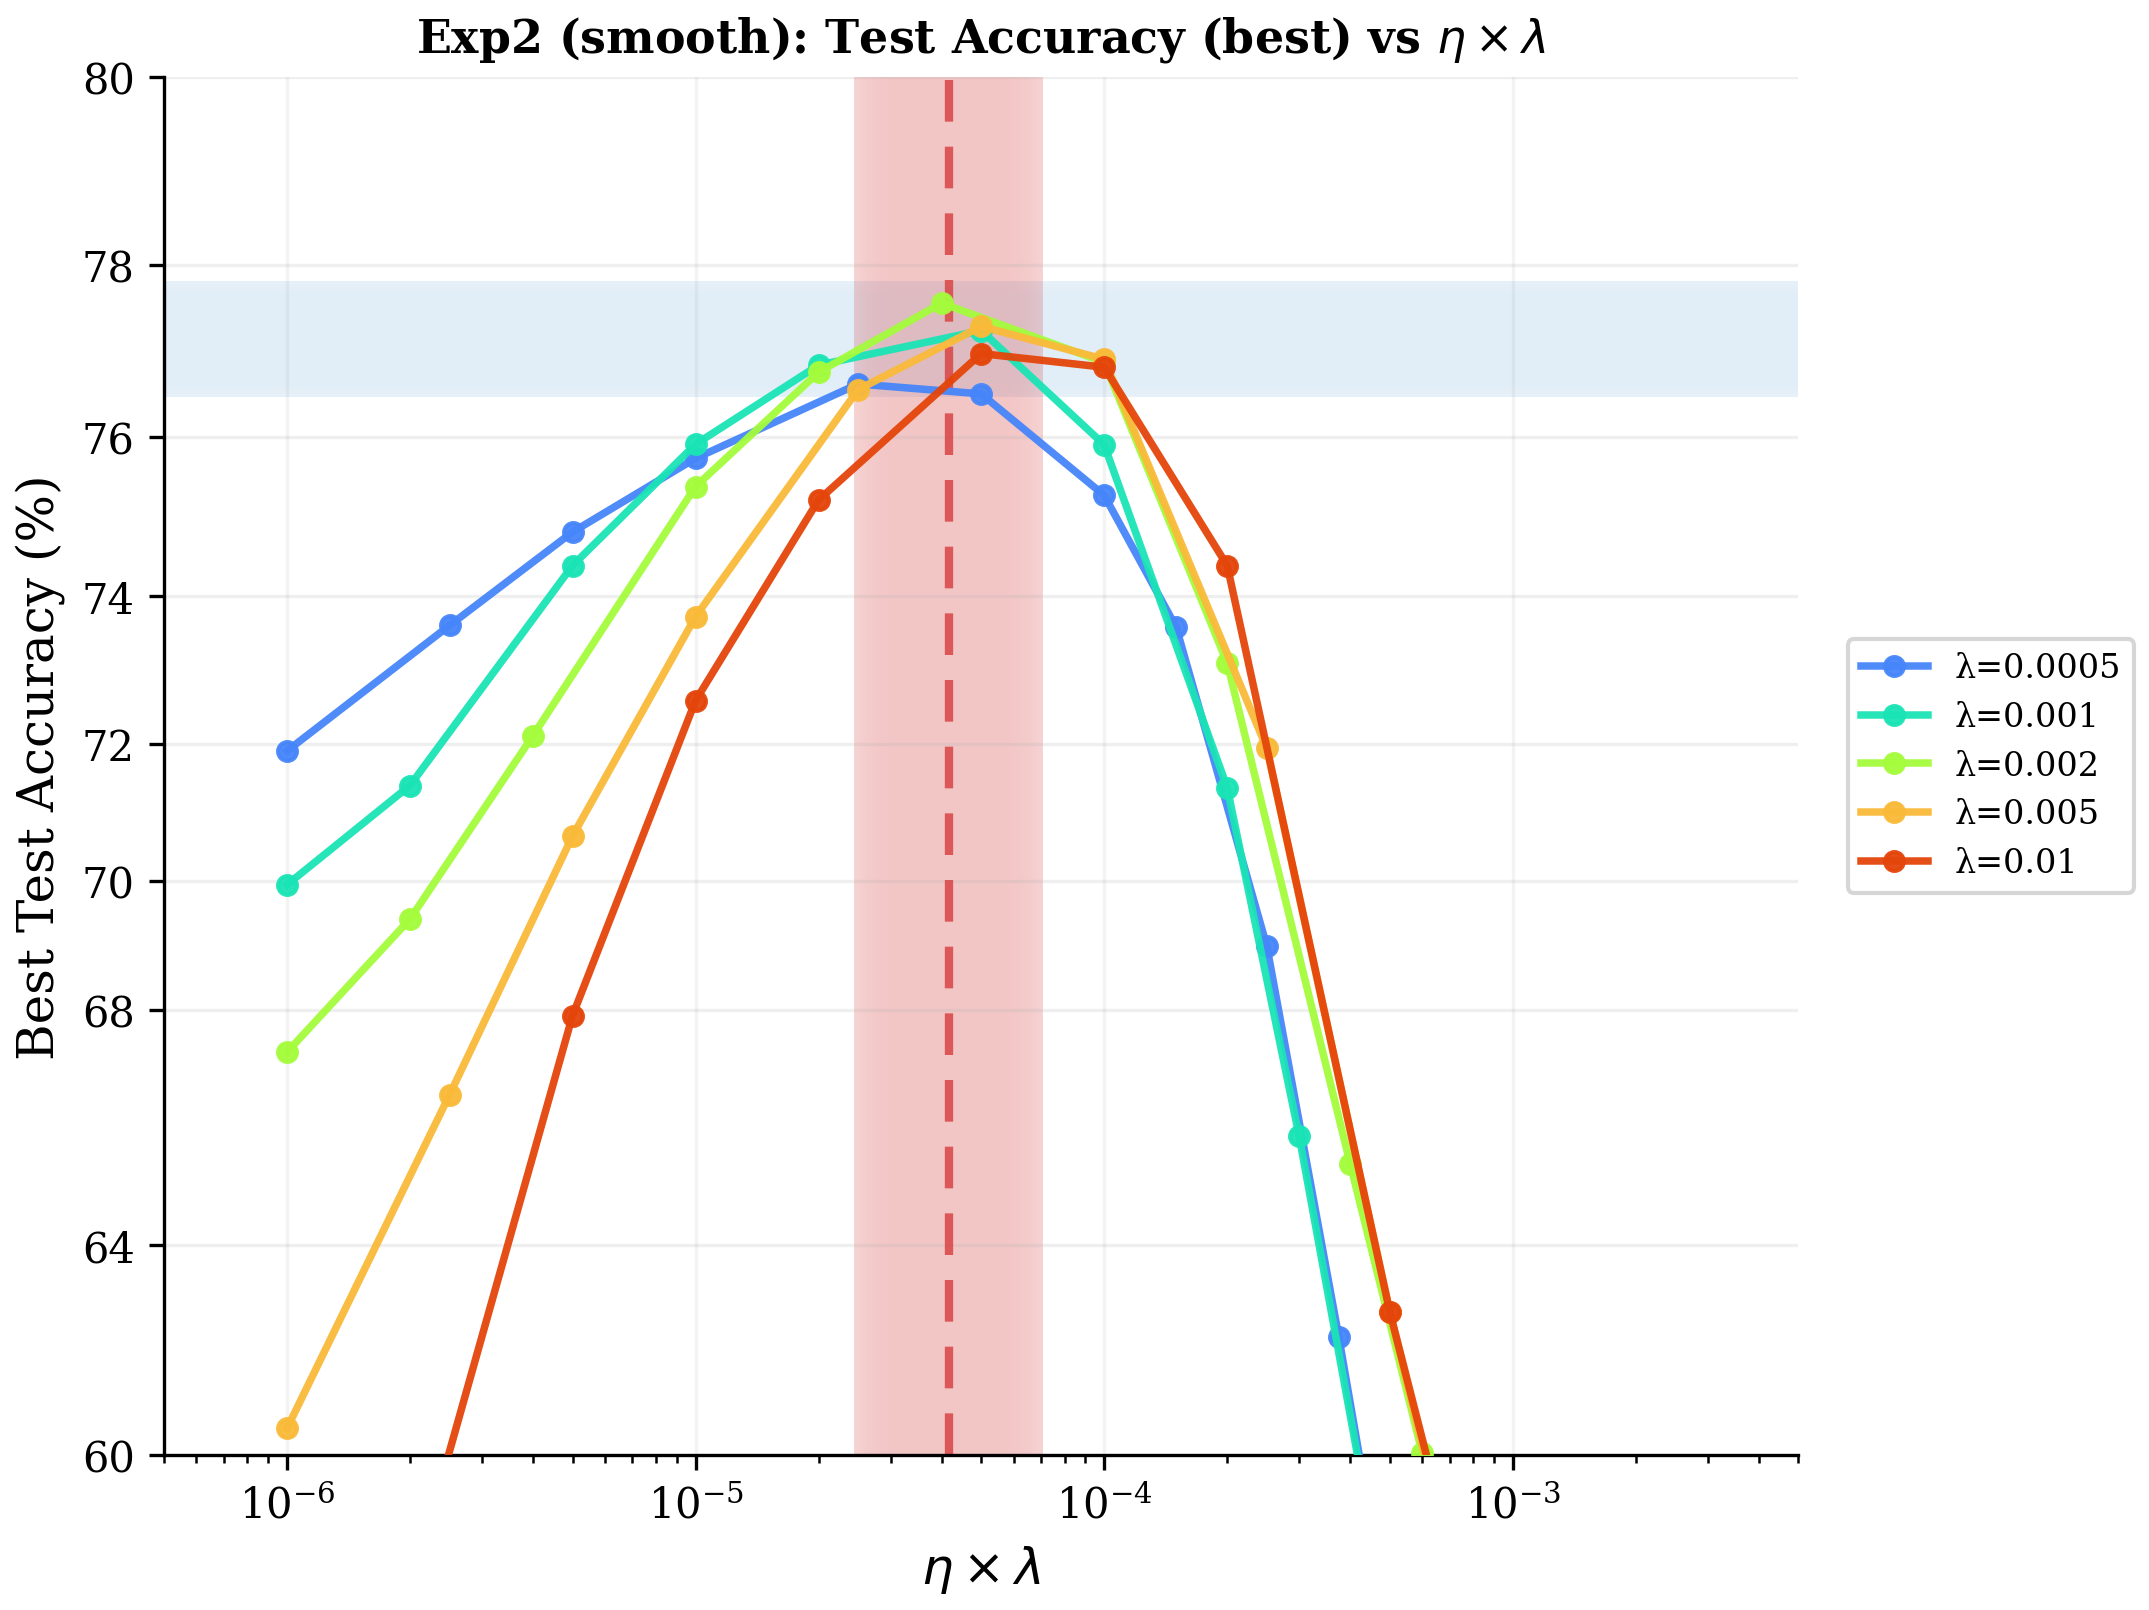
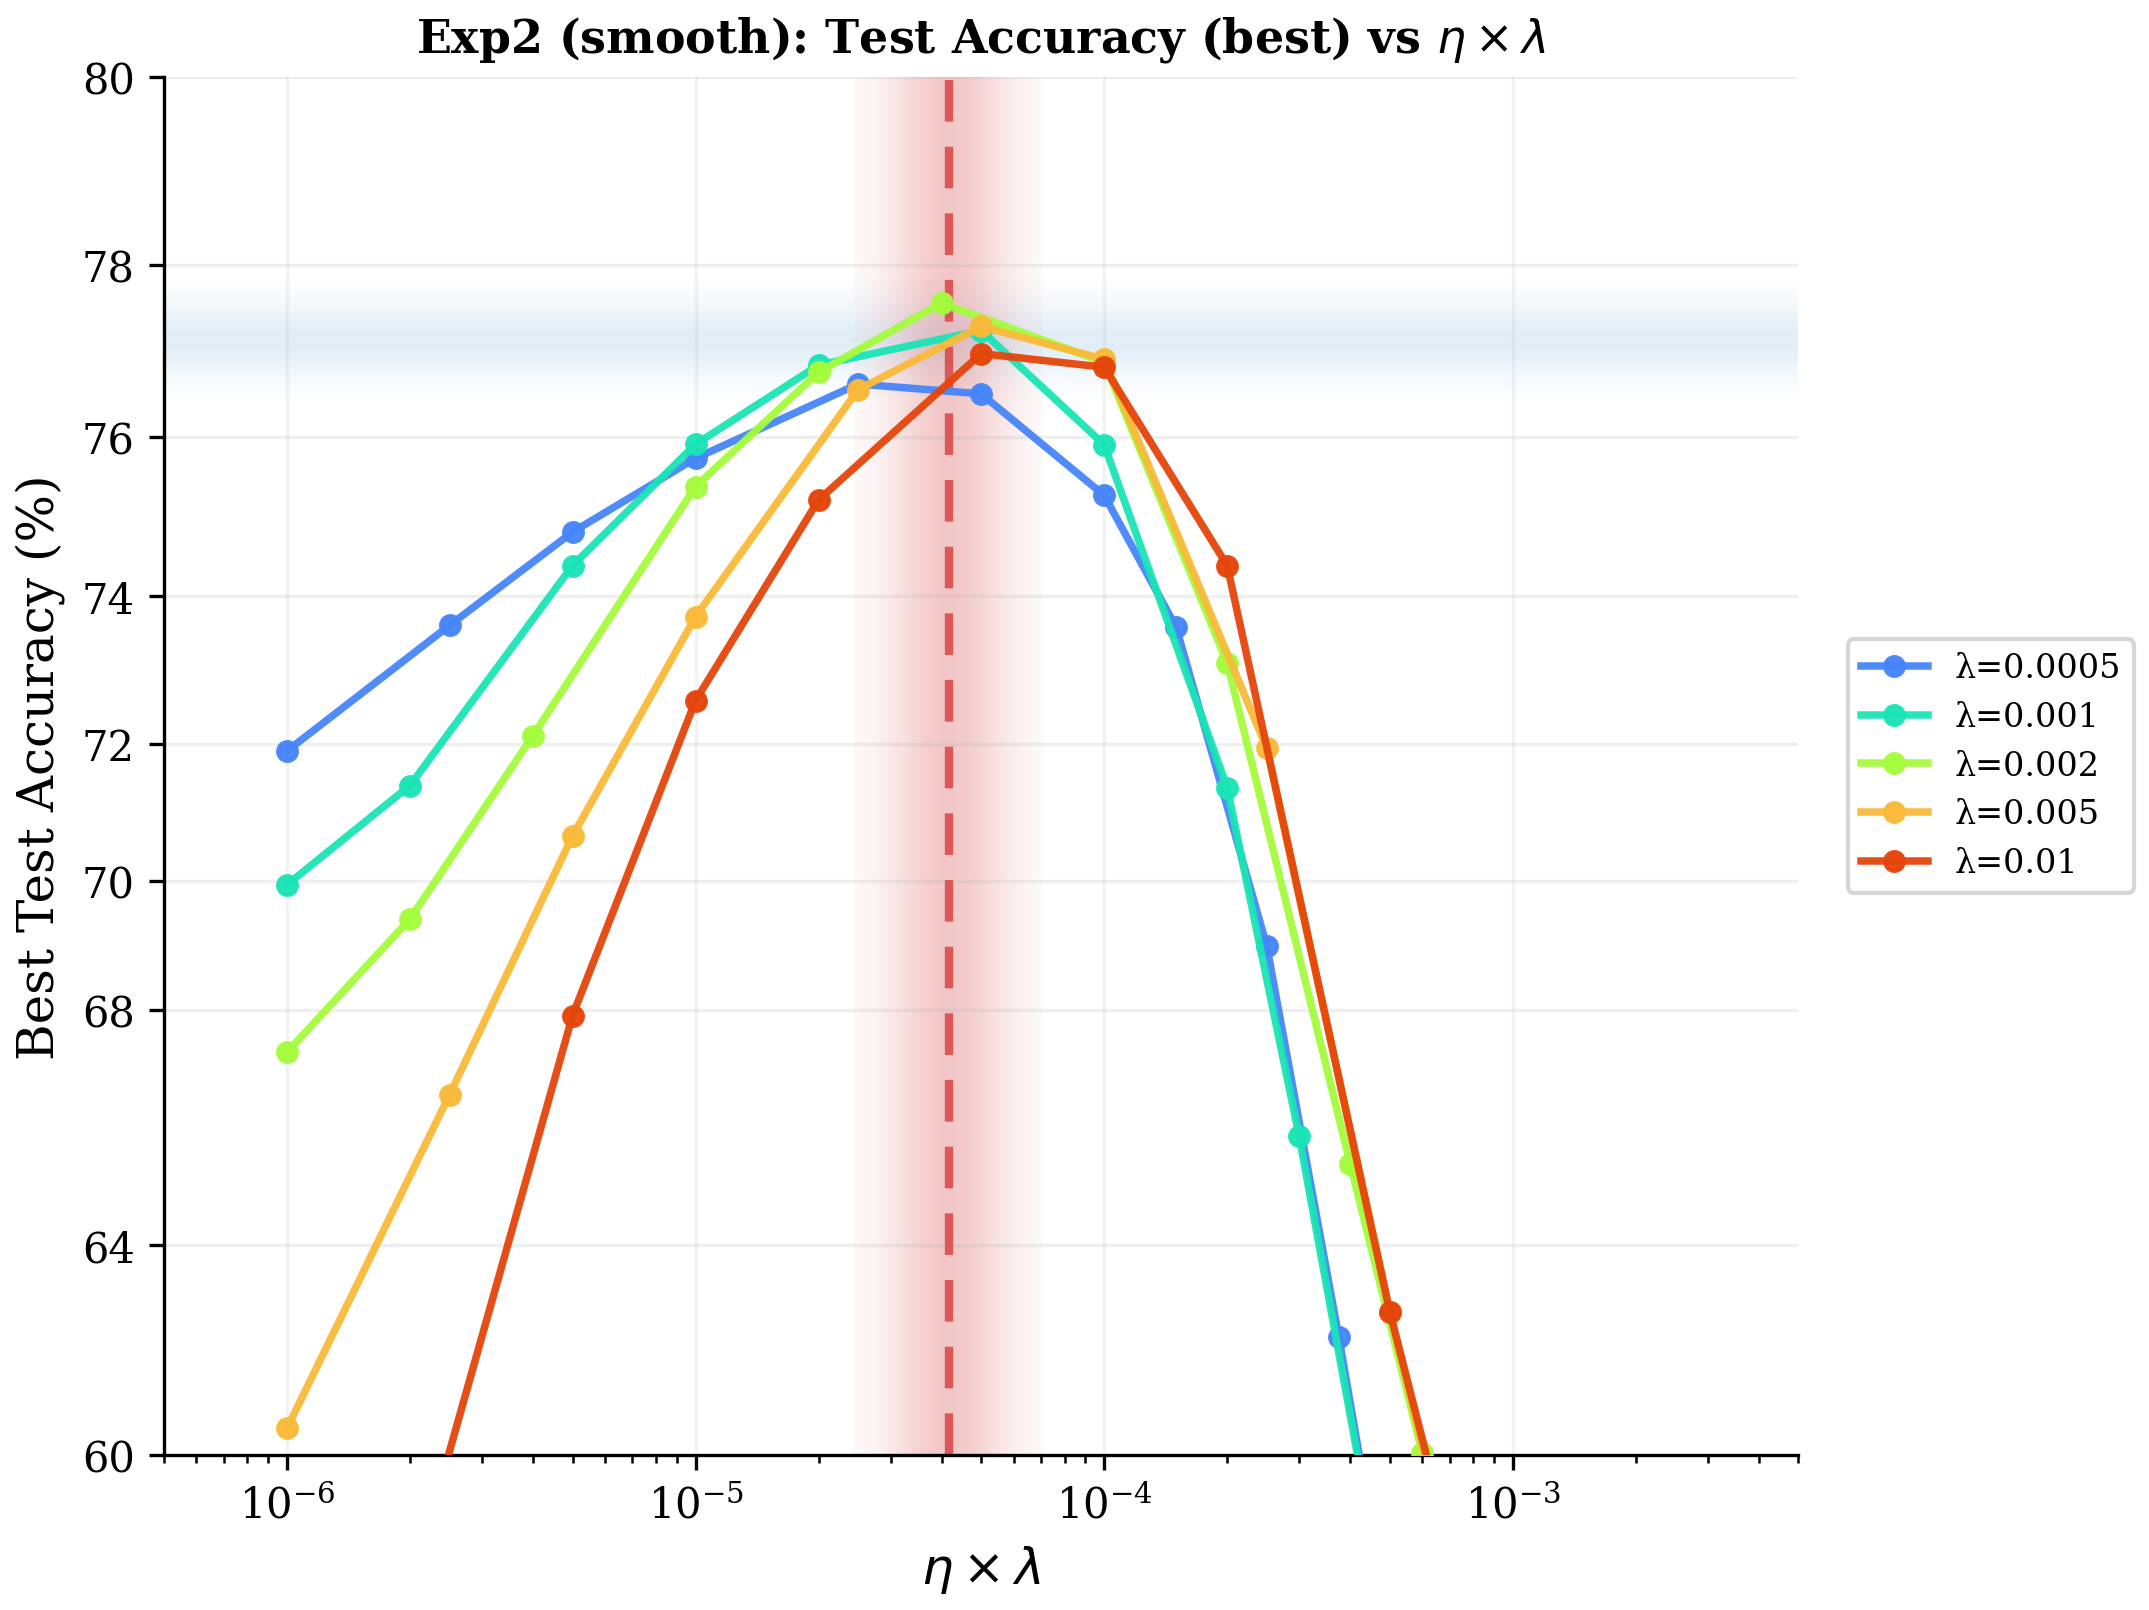
rebuttal: drop plateau, restore pure-Gaussian fade on both const-bands
The previous patch reintroduced a flat plateau through the
[peak_lo, peak_hi] core which wiped out the visible fade on the
horizontal blue band. Rewrite _gradient_strip to use a single
Gaussian centred on the per-curve peak mean (sigma scaled to the
half-width of the band, ^1.5 power) so both the x-band and y-band
fade smoothly from saturated centre to white edges with no plateau.

Changed region(s): [[0.3741, 0.0311, 0.4988, 0.9006]]

diff --git a/rebuttal/generate_figures.py b/rebuttal/generate_figures.py
@@ -627,22 +627,20 @@ def plot_exp2_focused_smooth(ext_dfs,
 
         from matplotlib.colors import to_rgb
 
-        def _gradient_strip(grid_centers, center, half_core):
-            """Gaussian envelope: ~1 inside [center±half_core], fading
-            symmetrically to ~0 at the band edges."""
-            half_w = float(grid_centers[-1] - center)  # symmetric extent
-            sigma = max(0.30 * 2 * half_w, 0.03)
-            dist = np.maximum(np.abs(grid_centers - center) - half_core, 0.0)
-            return (np.exp(-(dist ** 2) / (2 * sigma ** 2))) ** 1.5
+        def _gradient_strip(grid_centers, center, half_w):
+            """Pure Gaussian centred at `center` with sigma scaled to
+            half_w. Smooth fade from 1 at the centre to ~0 at ±half_w
+            (no plateau)."""
+            sigma = max(0.55 * half_w, 0.03)
+            return np.exp(-((grid_centers - center) ** 2) / (2 * sigma ** 2)) ** 1.5
 
         if show_const_band:
-            half_core_y = 0.5 * (peak_y_hi - peak_y_lo)
-            half_w_y = half_core_y + const_band_pad
-            n_strip_y = 80
+            half_w_y = 0.5 * (peak_y_hi - peak_y_lo) + const_band_pad
+            n_strip_y = 100
             ygrid = np.linspace(peak_y_mean - half_w_y,
                                 peak_y_mean + half_w_y, n_strip_y + 1)
             ymids = 0.5 * (ygrid[:-1] + ygrid[1:])
-            strength_y = _gradient_strip(ymids, peak_y_mean, half_core_y)
+            strength_y = _gradient_strip(ymids, peak_y_mean, half_w_y)
             r, g, b = to_rgb(const_band_color)
             xs_edge = np.array([view_lo, view_hi])
             X, Y = np.meshgrid(xs_edge, ygrid)
@@ -655,13 +653,12 @@ def plot_exp2_focused_smooth(ext_dfs,
                           zorder=1, rasterized=True)
 
         if show_const_xband:
-            half_core_x = 0.5 * (peak_x_hi - peak_x_lo)
-            half_w_x = half_core_x + const_xband_pad
-            n_strip_x = 120
+            half_w_x = 0.5 * (peak_x_hi - peak_x_lo) + const_xband_pad
+            n_strip_x = 140
             xgrid = np.linspace(peak_x_mean - half_w_x,
                                 peak_x_mean + half_w_x, n_strip_x + 1)
             xmids = 0.5 * (xgrid[:-1] + xgrid[1:])
-            strength_x = _gradient_strip(xmids, peak_x_mean, half_core_x)
+            strength_x = _gradient_strip(xmids, peak_x_mean, half_w_x)
             r, g, b = to_rgb(const_xband_color)
             xs_edge_x = np.power(10.0, xgrid)
             ys_edge_x = np.array([ylim[0], ylim[1]])
